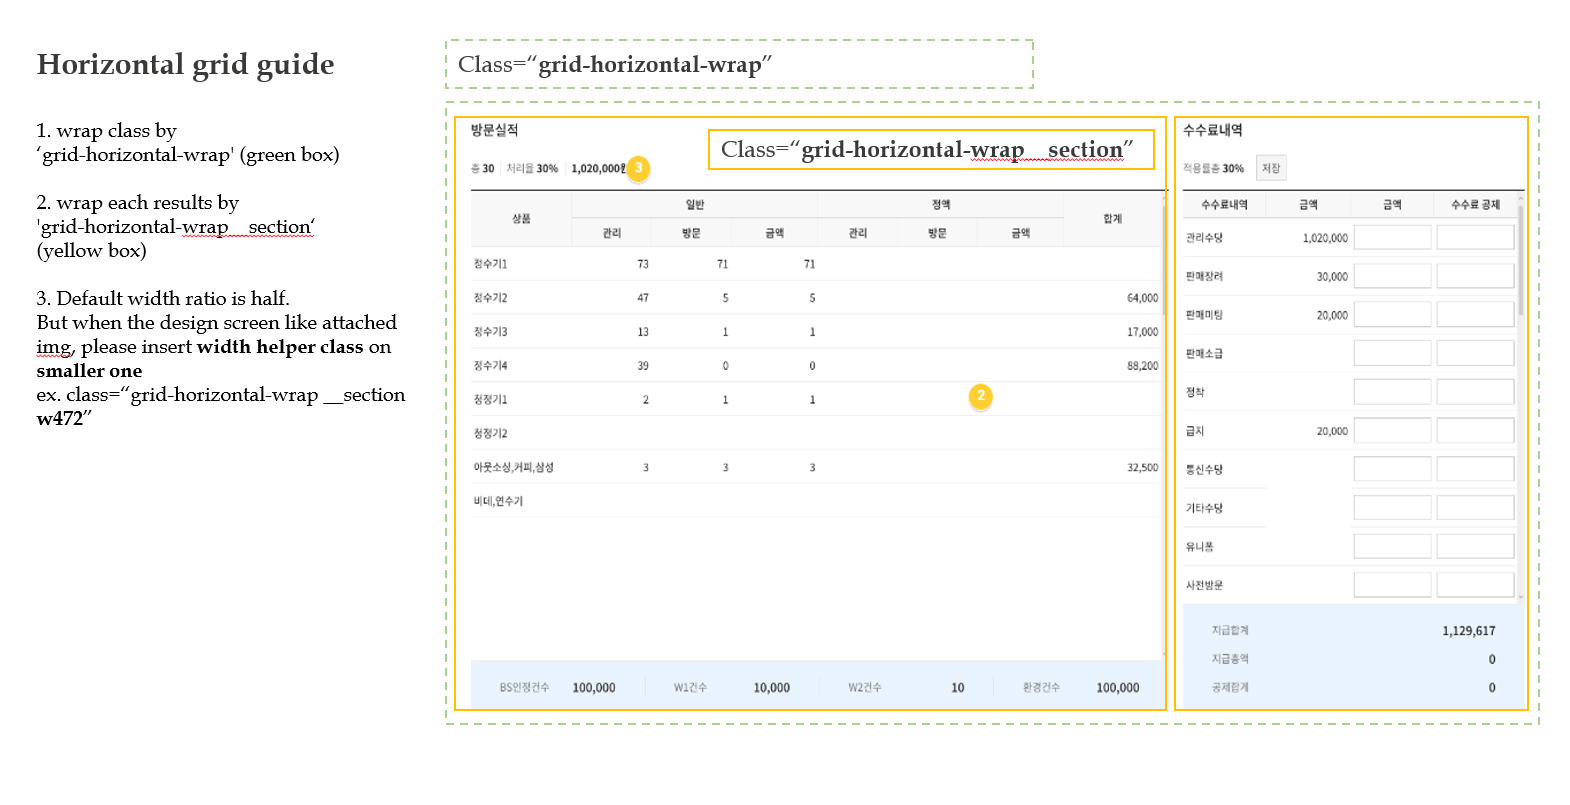
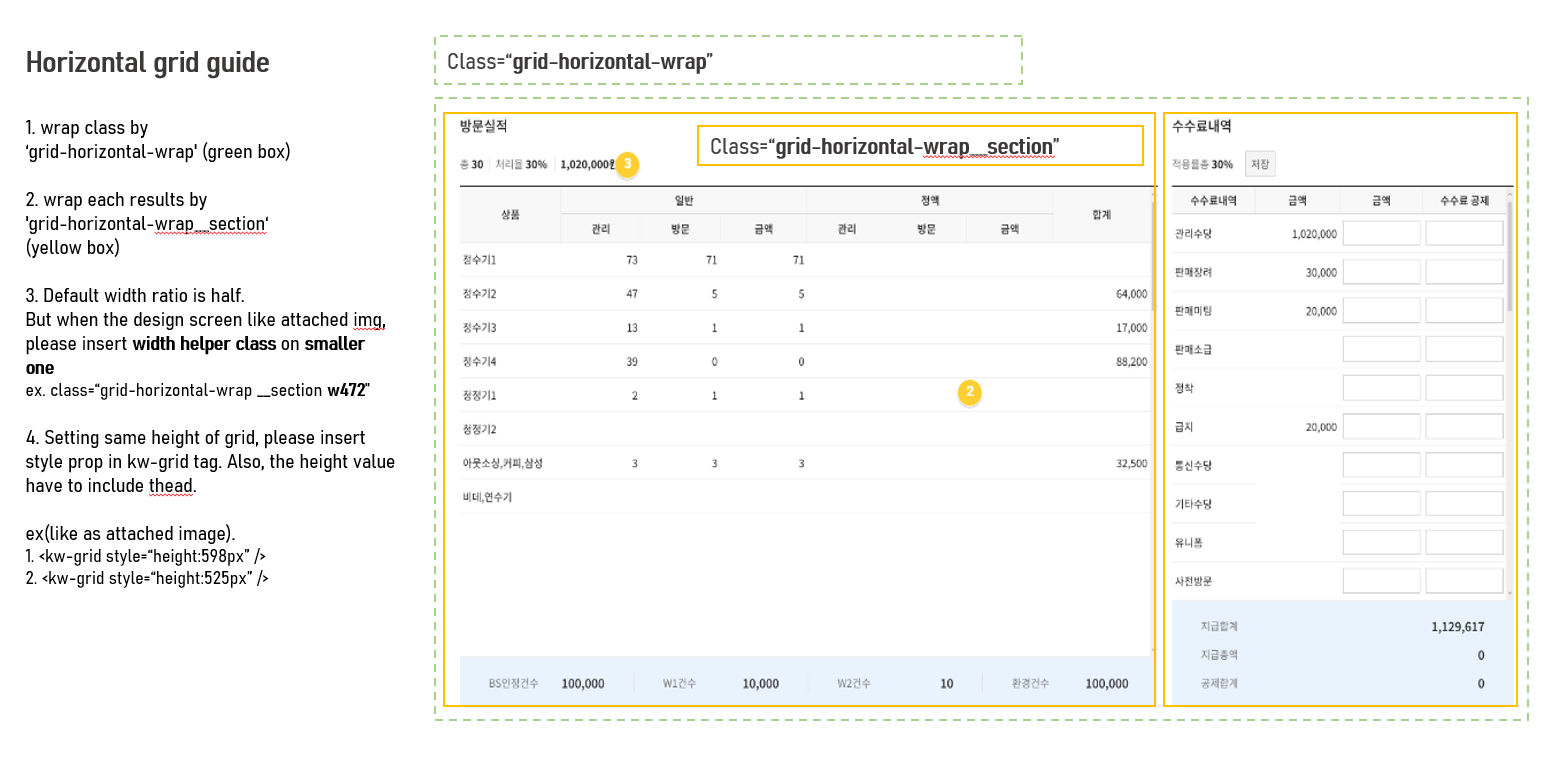
가이드 수정 | 병렬구조 그리드 가이드

diff --git a/dev/src/pages/publish/components/elements/Grid.vue b/dev/src/pages/publish/components/elements/Grid.vue
@@ -62,7 +62,7 @@
         </thead>
         <tbody>
           <tr>
-            <td rowspan="2">
+            <td rowspan="3">
               kw-grid
             </td>
             <td>
@@ -80,6 +80,15 @@
             </td>
             <td>
               Initializing function
+            </td>
+          </tr>
+          <tr>
+            <td>
+              style="height: px value"
+            </td>
+            <td>
+              Setting the height by style="height:px(include thead height)" in kw-grid tag, <br>
+              when it necessary(like as case #5)
             </td>
           </tr>
         </tbody>
@@ -286,7 +295,8 @@
         If the grids are located same line(horizontal), refer this guide and sample page
         <router-link to="/Publish/Components/Temporary/PageSample06">
           samplepage06
-        </router-link>
+        </router-link> <br>
+        <b>please set height by style="height:px(include thead height)" in kw-grid tag when it necessary</b>
       </p>
       <q-card>
         <img
@@ -927,6 +937,9 @@ const testCode5 = `
 <div class="grid-horizontal-wrap">
     <div class="grid-horizontal-wrap__section"> <!-- insert width helper class on smaller one when each 'grid-horizontal-wrap__section' has different size -->
       grid
+      <kw-grid
+        style="height:500px"
+      />
     </div>
     <div class="grid-horizontal-wrap__section">
       grid

diff --git a/dev/src/pages/publish/components/temporary/PageSample06.vue b/dev/src/pages/publish/components/temporary/PageSample06.vue
@@ -63,6 +63,7 @@
             </template>
           </kw-action-top>
           <kw-grid
+            style="height: 598px;"
             :visible-rows="10"
             @init="initGrid1"
           />
@@ -106,6 +107,7 @@
             />
           </kw-action-top>
           <kw-grid
+            style="height: 525px;"
             :visible-rows="10"
             @init="initGrid2"
           />
